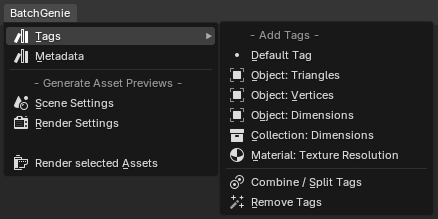
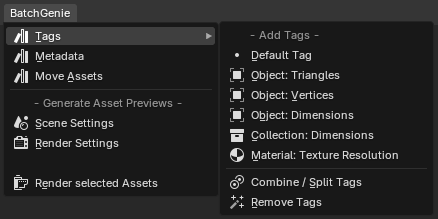
Misc

Changed region(s): [[0.0297, 0.4384, 0.4155, 0.6849], [0.0297, 0.7123, 0.3562, 0.8767], [0.0297, 0.3014, 0.4155, 0.411]]

diff --git a/docs/extra/extra.css b/docs/extra/extra.css
@@ -13,6 +13,13 @@
     margin-right: auto;  */
   }
 }
+/* Header */
+@media (max-width: 768px) {
+  .md-header__topic {
+    font-size: calc(1rem - 0.27rem); /* Subtracting from the base size */
+  }
+}
+
 
 .md-typeset .md-button--stretch {
   width: 99%;
@@ -65,4 +72,20 @@
   background-color: rgb(43, 155, 70);
   -webkit-mask-image: var(--md-admonition-icon--info2);
           mask-image: var(--md-admonition-icon--info2);
+}
+
+/* ### Mermaid Diagram */
+.mermaid .node rect {
+  fill: rgb(104, 169, 216) !important;
+  stroke: #000000 !important;
+}
+.mermaid svg path {
+  stroke: #0790cf !important;
+}
+.mermaid svg marker path {
+  fill: #0790cf !important;
+}
+.mermaid .nodeLabel {
+  color: #15144e !important;
+
 }

diff --git a/docs/preferences.md b/docs/preferences.md
@@ -25,12 +25,25 @@ To access BatchGenie's Preferences, click on the :blender_icon_preferences:icon 
     - **Add resolution Suffix as Asset tag**: Similar to the above, but instead of modifying the material name, it applies the resolution as a tag to the Asset. This works only if 'Mark as Asset' is enabled.
     - **Subfolder name as the material name**: When enabled, the name of the subfolder will be used as the material name for textures found inside that folder. If this option is disabled, the material name will be derived from the texture filenames.
     - **Split CamelCase names**: Splits names such as 'MetalBronzeWorn' into 'Metal Bronze Worn'.
-    - **Remove Underscore & Dashes**: Replaces '_' and '-' in the material names with space".
-    - **Remove keywords**: These keywords will be removed from the names of the imported materials. Enter one or more keywords separated by a space. Case insensitive
+    - **Remove Underscore & Dashes**: Replaces '_' and '-' in the material names with a space.
+    - **Remove keywords**: These keywords will be removed from the names of the imported materials. Enter one or more keywords separated by a space. Case insensitive.
+
 
 <div style="clear:both"></div>
 
-  - **Subfolder Traversing Depth**: Specify how many levels deep to search for subfolders when importing textures. The default depth is set to 1, meaning only one level deep will be searched within the selected folder. Adjust this setting to control the folder depth for more complex directory structures.
+  - **Subfolder Traversing Depth**: Specify how many levels deeap to search for subfolders when importing textures. The default depth is set to 1, meaning only one level deep will be searched within the selected folder. Adjust this setting to control the folder depth for more complex directory structures.
+
+    ??? abstract "Traversing diagram example"
+        ```mermaid
+        graph TD
+            A[Main Folder]
+            A --> B[Subfolder Level 1]
+            B --> C[Subfolder Level 2]
+            C --> D[Subfolder Level 3]
+            B --> E[Another Subfolder Level 2]
+            E --> F[Subfolder Level 3]
+            A --> G[Another Subfolder Level 1]
+        ```
 
   - **Texture Detection**: Edit the tags used for detecting different texture types during import. These tags, which are case-insensitive and separated by spaces, help BatchGenie automatically recognize and categorize textures.
 

diff --git a/docs/utilities.md b/docs/utilities.md
@@ -414,6 +414,8 @@ Helps delete any temporary files that might be left behind by BatchGenie. There 
 
 Add or remove tags from your Assets. Select any number of Assets of any type, choose the desired tags to add, and BatchGenie will assign them to the appropriate Assets. These can be either regular tags or Smart Tags that apply the property of your choice to the Asset.
 
+This feature works with both internal and external assets, so you don't have to open each individual Asset Blend file separately.
+
 <div style="clear:both"></div>
 
 #### • Add Tags {#Asset-tags-add}
@@ -466,11 +468,33 @@ This feature allows you to efficiently remove tags from selected Assets. You can
 
 > Location: Asset Browser ▸ BatchGenie Menu
 
-Batch add metadata for your Assets: Description, License, Copyright, and Author. You can select and edit one or multiple attributes simultaneously.
+Batch add metadata for your Assets: Description, License, Copyright, and Author. You can select and edit one or multiple attributes simultaneously. This feature works with both internal and external assets, so you don't have to open each individual Asset Blend file separately.
 
 ![Metadata](images/utility_asset_browser_metadata.png){ .img-box align=left }
 
 <div style="clear:both"></div>
+
+
+---
+
+
+### Move Assets
+
+> Location: Asset Browser ▸ BatchGenie Menu
+
+Move Assets to different Asset Catalogs to help you organize your Asset Library. This feature works with both internal and external Assets, so you don't have to open each individual Asset Blend file separately.
+
+The 'Catalog Details' section displays the UUID and the Asset Library Path of the chosen Catalog.
+
+![Metadata](images/utility_move_assets.png){ .img-box align=left }
+
+![Metadata](images/utility_move_assets_catalog_example.png){ .img-box align=left }
+
+<div style="clear:both"></div>
+
+!!! info2 "How is this done?"
+
+    The utility does not touch the Assets "physical location"; it simply changes the Catalog ID they are associated with, making them appear in a specific catalog (exactly as if you had moved them manually).
 
 
 ---

diff --git a/docs/index.md b/docs/index.md
@@ -44,6 +44,7 @@ Welcome to BatchGenie, an add-on designed to simplify and automate common Asset 
     - Reload Images: Update externally edited images in Blender, ensuring they refresh correctly.
     - Tagging Utilities: Easily add and remove tags for Assets in the Asset Browser. The Smart Tag feature lets you choose to add tags like dimensions, triangle and vertex counts, and texture resolution, offering detailed asset information.
     - Metadata Adjustment: Easily adjust metadata in the Asset Browser, allowing batch additions of description, license, copyright, and author.
+    - Move Asset: Organize your assets efficiently by moving them to the correct Asset Catalogs with a single click, without having to open each individual Asset Blend file.
     - Plus a few other small utilities!
 
 

diff --git a/docs/rendering_asset_previews.md b/docs/rendering_asset_previews.md
@@ -4,6 +4,8 @@ tags:
 ---
 When it comes to rendering Asset Preview images, you have two distinct options. You can either utilize Batch Rendering through the BatchGenie panel, or selectively choose Assets from the Asset Browser for which you wish to render previews for. BatchGenie supports rendering previews for materials, collections, and objects, including VDB volumes.
 
+When rendering via the Asset Browser, you can work with both internal and external assets, so you don't have to open each individual Asset Blend file separately.
+
 
 ## Batch Rendering
 
